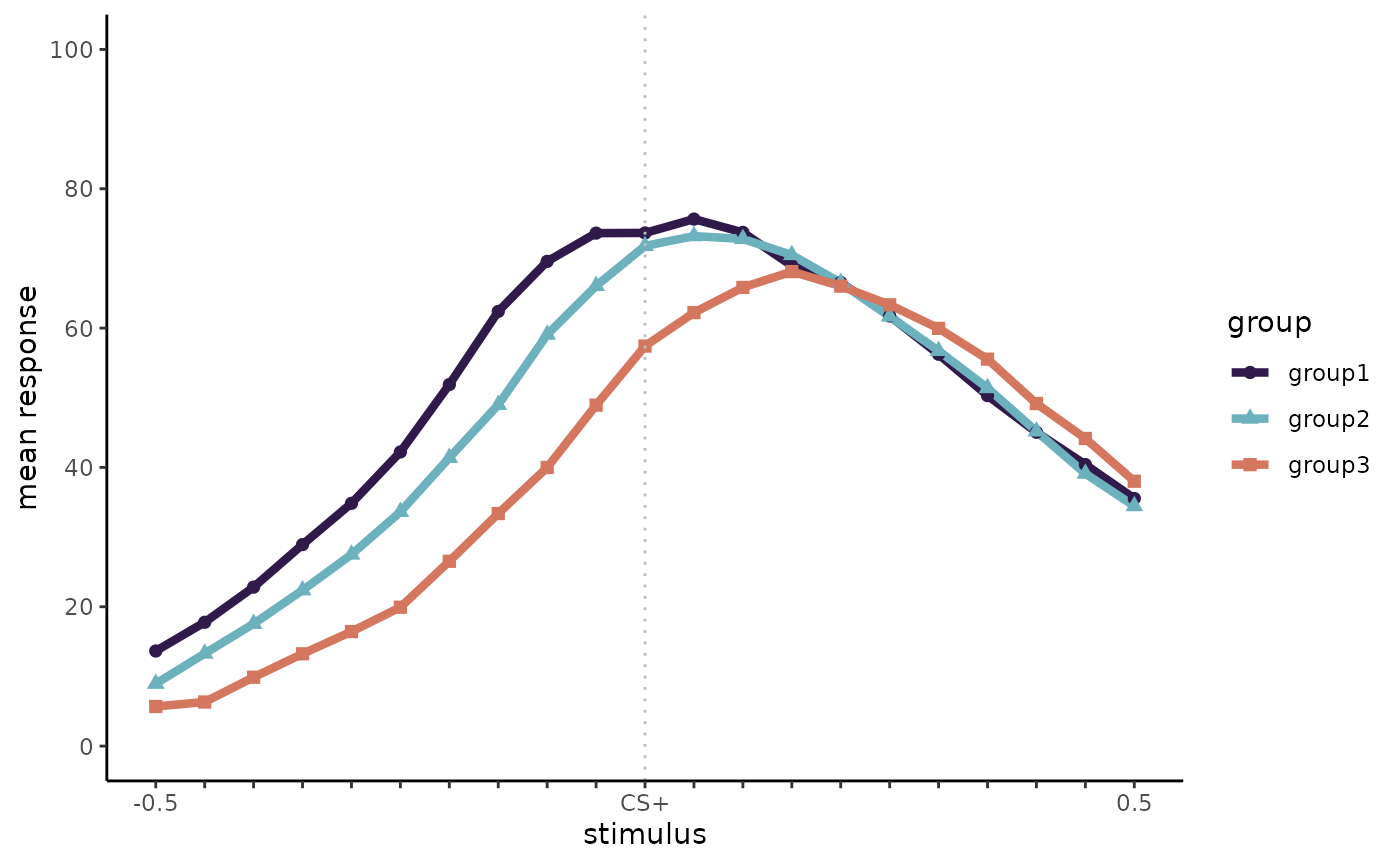
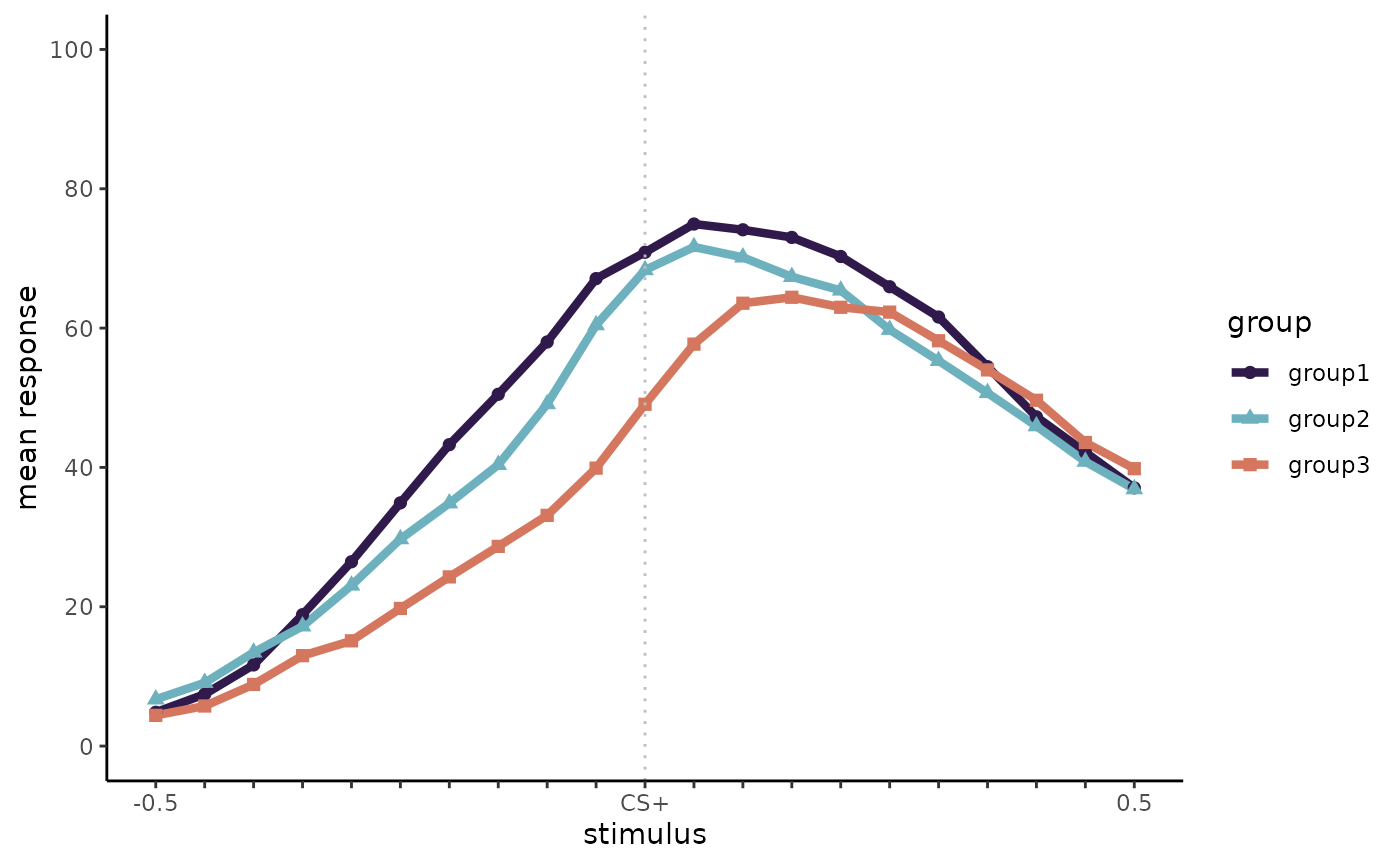
Deploying to gh-pages from @ fontikar/augGauss@8435af4aa9eb79ba9f556b60b281e125bf797bbd 🚀

Changed region(s): [[0.0921, 0.2497, 0.8293, 0.8428]]

diff --git a/articles/augGauss.html b/articles/augGauss.html
@@ -113,12 +113,12 @@ of <code>augGauss</code>
 <span><span class="co">#&gt; <span style="color: #949494;"># A tibble: 630 × 4</span></span></span>
 <span><span class="co">#&gt;    subj group      x     y</span></span>
 <span><span class="co">#&gt;   <span style="color: #949494; font-style: italic;">&lt;dbl&gt;</span> <span style="color: #949494; font-style: italic;">&lt;chr&gt;</span>  <span style="color: #949494; font-style: italic;">&lt;dbl&gt;</span> <span style="color: #949494; font-style: italic;">&lt;dbl&gt;</span></span></span>
-<span><span class="co">#&gt; <span style="color: #BCBCBC;">1</span>     1 group1 -<span style="color: #BB0000;">0.5</span>   20.8</span></span>
-<span><span class="co">#&gt; <span style="color: #BCBCBC;">2</span>     1 group1 -<span style="color: #BB0000;">0.45</span>  28.0</span></span>
-<span><span class="co">#&gt; <span style="color: #BCBCBC;">3</span>     1 group1 -<span style="color: #BB0000;">0.4</span>   39.9</span></span>
-<span><span class="co">#&gt; <span style="color: #BCBCBC;">4</span>     1 group1 -<span style="color: #BB0000;">0.35</span>  49.3</span></span>
-<span><span class="co">#&gt; <span style="color: #BCBCBC;">5</span>     1 group1 -<span style="color: #BB0000;">0.3</span>   58.8</span></span>
-<span><span class="co">#&gt; <span style="color: #BCBCBC;">6</span>     1 group1 -<span style="color: #BB0000;">0.25</span>  62.6</span></span>
+<span><span class="co">#&gt; <span style="color: #BCBCBC;">1</span>     1 group1 -<span style="color: #BB0000;">0.5</span>   4.90</span></span>
+<span><span class="co">#&gt; <span style="color: #BCBCBC;">2</span>     1 group1 -<span style="color: #BB0000;">0.45</span>  8.17</span></span>
+<span><span class="co">#&gt; <span style="color: #BCBCBC;">3</span>     1 group1 -<span style="color: #BB0000;">0.4</span>  11.7 </span></span>
+<span><span class="co">#&gt; <span style="color: #BCBCBC;">4</span>     1 group1 -<span style="color: #BB0000;">0.35</span> 18.2 </span></span>
+<span><span class="co">#&gt; <span style="color: #BCBCBC;">5</span>     1 group1 -<span style="color: #BB0000;">0.3</span>  21.6 </span></span>
+<span><span class="co">#&gt; <span style="color: #BCBCBC;">6</span>     1 group1 -<span style="color: #BB0000;">0.25</span> 24.5 </span></span>
 <span><span class="co">#&gt; <span style="color: #949494;"># ℹ 624 more rows</span></span></span></code></pre></div>
 <p>You can save the simulated data by setting the <code>save_data</code>
 argument to <code>TRUE</code></p>
@@ -143,35 +143,35 @@ argument to <code>TRUE</code></p>
 <div class="sourceCode" id="cb7"><pre class="downlit sourceCode r">
 <code class="sourceCode R"><span><span class="fu"><a href="../reference/Get_HDIs.html">Get_HDIs</a></span><span class="op">(</span><span class="va">combined</span><span class="op">)</span> </span>
 <span><span class="co">#&gt; $group1</span></span>
-<span><span class="co">#&gt;           param hdi_lim    hdi_low    hdi_high rope_low rope_high prop_rope</span></span>
-<span><span class="co">#&gt; 1       M_group    0.95 -0.0908908  0.03586731    -0.05      0.05      0.78</span></span>
-<span><span class="co">#&gt; 2  SDPlus_group    0.95  0.3348266  0.48086057     0.10      0.20      0.00</span></span>
-<span><span class="co">#&gt; 3 SDMinus_group    0.95  0.1724787  0.30008516     0.10      0.20      0.15</span></span>
-<span><span class="co">#&gt; 4  height_group    0.95 77.5196138 80.15737202    70.00     80.00      0.96</span></span>
+<span><span class="co">#&gt;           param hdi_lim     hdi_low   hdi_high rope_low rope_high prop_rope</span></span>
+<span><span class="co">#&gt; 1       M_group    0.95 -0.02939863  0.2120115    -0.05      0.05      0.40</span></span>
+<span><span class="co">#&gt; 2  SDPlus_group    0.95  0.14844642  0.4299640     0.10      0.20      0.21</span></span>
+<span><span class="co">#&gt; 3 SDMinus_group    0.95  0.15448574  0.2889490     0.10      0.20      0.23</span></span>
+<span><span class="co">#&gt; 4  height_group    0.95 50.99432431 81.1201885    70.00     80.00      0.31</span></span>
 <span><span class="co">#&gt;   p_dir</span></span>
-<span><span class="co">#&gt; 1  0.79</span></span>
+<span><span class="co">#&gt; 1  0.89</span></span>
 <span><span class="co">#&gt; 2  1.00</span></span>
 <span><span class="co">#&gt; 3  1.00</span></span>
 <span><span class="co">#&gt; 4  1.00</span></span>
 <span><span class="co">#&gt; </span></span>
 <span><span class="co">#&gt; $group2</span></span>
-<span><span class="co">#&gt;           param hdi_lim     hdi_low    hdi_high rope_low rope_high prop_rope</span></span>
-<span><span class="co">#&gt; 1       M_group    0.95 -0.03557603  0.09613486    -0.05      0.05      0.74</span></span>
-<span><span class="co">#&gt; 2  SDPlus_group    0.95  0.29347237  0.42859499     0.10      0.20      0.00</span></span>
-<span><span class="co">#&gt; 3 SDMinus_group    0.95  0.18625033  0.29382908     0.10      0.20      0.05</span></span>
-<span><span class="co">#&gt; 4  height_group    0.95 60.15543552 77.51817058    70.00     80.00      0.50</span></span>
+<span><span class="co">#&gt;           param hdi_lim     hdi_low   hdi_high rope_low rope_high prop_rope</span></span>
+<span><span class="co">#&gt; 1       M_group    0.95 -0.03742665  0.3289277    -0.05      0.05      0.43</span></span>
+<span><span class="co">#&gt; 2  SDPlus_group    0.95  0.09966680  0.4860483     0.10      0.20      0.38</span></span>
+<span><span class="co">#&gt; 3 SDMinus_group    0.95  0.11189182  0.5306188     0.10      0.20      0.41</span></span>
+<span><span class="co">#&gt; 4  height_group    0.95 27.34201686 75.8644720    70.00     80.00      0.50</span></span>
 <span><span class="co">#&gt;   p_dir</span></span>
-<span><span class="co">#&gt; 1  0.74</span></span>
+<span><span class="co">#&gt; 1  0.77</span></span>
 <span><span class="co">#&gt; 2  1.00</span></span>
 <span><span class="co">#&gt; 3  1.00</span></span>
 <span><span class="co">#&gt; 4  1.00</span></span>
 <span><span class="co">#&gt; </span></span>
 <span><span class="co">#&gt; $group3</span></span>
 <span><span class="co">#&gt;           param hdi_lim     hdi_low   hdi_high rope_low rope_high prop_rope</span></span>
-<span><span class="co">#&gt; 1       M_group    0.95  0.04971669  0.2305600    -0.05      0.05      0.03</span></span>
-<span><span class="co">#&gt; 2  SDPlus_group    0.95  0.31291494  0.9999632     0.10      0.20      0.00</span></span>
-<span><span class="co">#&gt; 3 SDMinus_group    0.95  0.20845666  0.3043613     0.10      0.20      0.00</span></span>
-<span><span class="co">#&gt; 4  height_group    0.95 40.43222326 71.2605300    70.00     80.00      0.38</span></span>
+<span><span class="co">#&gt; 1       M_group    0.95  0.03386109  0.1376460    -0.05      0.05      0.08</span></span>
+<span><span class="co">#&gt; 2  SDPlus_group    0.95  0.32648971  0.4335942     0.10      0.20      0.00</span></span>
+<span><span class="co">#&gt; 3 SDMinus_group    0.95  0.12992057  0.2725881     0.10      0.20      0.33</span></span>
+<span><span class="co">#&gt; 4  height_group    0.95 69.21586280 71.5534267    70.00     80.00      0.81</span></span>
 <span><span class="co">#&gt;   p_dir</span></span>
 <span><span class="co">#&gt; 1     1</span></span>
 <span><span class="co">#&gt; 2     1</span></span>
@@ -180,118 +180,118 @@ argument to <code>TRUE</code></p>
 <span></span>
 <span><span class="fu"><a href="../reference/Get_HDIs_diff.html">Get_HDIs_diff</a></span><span class="op">(</span><span class="va">combined</span>, comparison <span class="op">=</span> <span class="fu"><a href="https://rdrr.io/r/base/c.html" class="external-link">c</a></span><span class="op">(</span><span class="st">"group1"</span>, <span class="st">"group3"</span><span class="op">)</span><span class="op">)</span> </span>
 <span><span class="co">#&gt; $group_sample_diffs</span></span>
-<span><span class="co">#&gt;         M_group SDPlus_group SDMinus_group height_group</span></span>
-<span><span class="co">#&gt; 1   -0.21727101  0.054325519  -0.002874940    10.263999</span></span>
-<span><span class="co">#&gt; 2   -0.21620839  0.027194856  -0.046093563     8.764259</span></span>
-<span><span class="co">#&gt; 3   -0.10488857  0.032018199  -0.077473921     9.810212</span></span>
-<span><span class="co">#&gt; 4   -0.12845479  0.092912814  -0.021460778     8.649261</span></span>
-<span><span class="co">#&gt; 5   -0.09777394  0.074549662  -0.053819750     6.777483</span></span>
-<span><span class="co">#&gt; 6   -0.19403608  0.024728223  -0.042852513     8.224108</span></span>
-<span><span class="co">#&gt; 7   -0.08016422  0.085057504   0.012657117     8.617163</span></span>
-<span><span class="co">#&gt; 8   -0.19176985  0.048489959  -0.021524948     9.097928</span></span>
-<span><span class="co">#&gt; 9   -0.10062733  0.049444555   0.047222618     8.478196</span></span>
-<span><span class="co">#&gt; 10  -0.08891719  0.167945635   0.051308251     9.370869</span></span>
-<span><span class="co">#&gt; 11  -0.16284360  0.081915298  -0.024586142     7.911898</span></span>
-<span><span class="co">#&gt; 12  -0.15092997  0.101082417   0.003867328     8.089712</span></span>
-<span><span class="co">#&gt; 13  -0.12249264  0.001112768  -0.005464958     6.844235</span></span>
-<span><span class="co">#&gt; 14  -0.16838249  0.025054657   0.029113208     7.568462</span></span>
-<span><span class="co">#&gt; 15  -0.08475131  0.046278480  -0.068447797     9.129154</span></span>
-<span><span class="co">#&gt; 16  -0.17539865  0.040393975   0.012054918     8.656194</span></span>
-<span><span class="co">#&gt; 17  -0.07754371  0.016172625  -0.014007394     7.391960</span></span>
-<span><span class="co">#&gt; 18  -0.13515942 -0.068083050   0.024295119     7.216624</span></span>
-<span><span class="co">#&gt; 19  -0.10985060  0.139345173   0.025466695     7.788508</span></span>
-<span><span class="co">#&gt; 20  -0.12608943  0.085633969  -0.032535457     6.833905</span></span>
-<span><span class="co">#&gt; 21  -0.20520168  0.024802518   0.031534362     9.278038</span></span>
-<span><span class="co">#&gt; 22  -0.06612078  0.087075698   0.003975574     7.797557</span></span>
-<span><span class="co">#&gt; 23  -0.16195674  0.133397910  -0.034101508     8.780768</span></span>
-<span><span class="co">#&gt; 24  -0.09975199  0.153763062   0.046239549     8.751914</span></span>
-<span><span class="co">#&gt; 25  -0.14519275  0.034906697  -0.059363042    10.387826</span></span>
-<span><span class="co">#&gt; 26  -0.10886900  0.120951636   0.023862213     8.162546</span></span>
-<span><span class="co">#&gt; 27  -0.13568646  0.087323383  -0.050970975     8.984652</span></span>
-<span><span class="co">#&gt; 28  -0.03158035  0.146661976   0.013511988     8.339056</span></span>
-<span><span class="co">#&gt; 29  -0.13975900  0.128345473   0.047298099     8.403335</span></span>
-<span><span class="co">#&gt; 30  -0.14045212  0.024040483  -0.051702132     8.493557</span></span>
-<span><span class="co">#&gt; 31  -0.16617044  0.035638997  -0.034269514     7.363753</span></span>
-<span><span class="co">#&gt; 32  -0.08278816  0.059563255  -0.002855155    10.831375</span></span>
-<span><span class="co">#&gt; 33  -0.11110287  0.087656601  -0.090216697     7.362208</span></span>
-<span><span class="co">#&gt; 34  -0.09758685  0.131009973  -0.015780754     7.473893</span></span>
-<span><span class="co">#&gt; 35  -0.08963024  0.085048408   0.004222881     7.764303</span></span>
-<span><span class="co">#&gt; 36  -0.12599236  0.065000800  -0.020296263     8.126818</span></span>
-<span><span class="co">#&gt; 37  -0.14113086  0.101979583  -0.002538226     7.423678</span></span>
-<span><span class="co">#&gt; 38  -0.14678511 -0.031585127   0.008981466     6.829856</span></span>
-<span><span class="co">#&gt; 39  -0.07252593 -0.010047081  -0.078706226     9.353344</span></span>
-<span><span class="co">#&gt; 40  -0.10687508  0.049836821  -0.043592705     7.890647</span></span>
-<span><span class="co">#&gt; 41  -0.10427783  0.116668902   0.034981188     7.806011</span></span>
-<span><span class="co">#&gt; 42  -0.18060148  0.036201549  -0.043302571     6.429565</span></span>
-<span><span class="co">#&gt; 43  -0.16635302 -0.010713863   0.019527835     7.368822</span></span>
-<span><span class="co">#&gt; 44  -0.18138076 -0.010378215  -0.026836213     7.181583</span></span>
-<span><span class="co">#&gt; 45  -0.15020614 -0.054234977   0.019991958     8.634247</span></span>
-<span><span class="co">#&gt; 46  -0.11281399 -0.018856074  -0.072978272     7.552645</span></span>
-<span><span class="co">#&gt; 47  -0.13784375  0.073677016  -0.083341264     6.785780</span></span>
-<span><span class="co">#&gt; 48  -0.17945973  0.043832770  -0.031817741     9.923425</span></span>
-<span><span class="co">#&gt; 49  -0.05485419  0.046901489  -0.034783334     8.326676</span></span>
-<span><span class="co">#&gt; 50  -0.09492663  0.070380449   0.034529817     7.741720</span></span>
-<span><span class="co">#&gt; 51  -0.20925240 -0.564778317  -0.008239395    38.363062</span></span>
-<span><span class="co">#&gt; 52  -0.18461162 -0.641153943  -0.060941655    37.141019</span></span>
-<span><span class="co">#&gt; 53  -0.24641679 -0.551128976   0.021356812    34.079672</span></span>
-<span><span class="co">#&gt; 54  -0.18620537 -0.605165895  -0.033471537    36.567449</span></span>
-<span><span class="co">#&gt; 55  -0.21202043 -0.624498051  -0.029104507    32.375438</span></span>
-<span><span class="co">#&gt; 56  -0.16525425 -0.626975267  -0.041467999    35.748695</span></span>
-<span><span class="co">#&gt; 57  -0.20156777 -0.613388964  -0.056823929    36.105844</span></span>
-<span><span class="co">#&gt; 58  -0.27332690 -0.629519373   0.038553850    36.263644</span></span>
-<span><span class="co">#&gt; 59  -0.18647291 -0.597542156  -0.001849103    35.504300</span></span>
-<span><span class="co">#&gt; 60  -0.17297254 -0.647661936  -0.057937110    38.156776</span></span>
-<span><span class="co">#&gt; 61  -0.23745482 -0.567111410   0.061553383    36.219411</span></span>
-<span><span class="co">#&gt; 62  -0.15129208 -0.589719070   0.002308566    34.011380</span></span>
-<span><span class="co">#&gt; 63  -0.30117632 -0.590493748  -0.075086573    36.091012</span></span>
-<span><span class="co">#&gt; 64  -0.15598693 -0.613454585  -0.057124823    38.384191</span></span>
-<span><span class="co">#&gt; 65  -0.20123022 -0.576605426  -0.124350576    36.599653</span></span>
-<span><span class="co">#&gt; 66  -0.23217476 -0.544869754   0.042343846    38.711410</span></span>
-<span><span class="co">#&gt; 67  -0.14963297 -0.584767364  -0.023911597    36.544399</span></span>
-<span><span class="co">#&gt; 68  -0.22147420 -0.565663182  -0.052745935    34.722783</span></span>
-<span><span class="co">#&gt; 69  -0.15519072 -0.619161208   0.007919497    36.960282</span></span>
-<span><span class="co">#&gt; 70  -0.29266266 -0.585502205  -0.118444511    37.063214</span></span>
-<span><span class="co">#&gt; 71  -0.11926239 -0.626126605   0.042286688    36.504798</span></span>
-<span><span class="co">#&gt; 72  -0.24185617 -0.587064834   0.020241645    34.200256</span></span>
-<span><span class="co">#&gt; 73  -0.13599668 -0.583412539   0.011030613    35.074059</span></span>
-<span><span class="co">#&gt; 74  -0.22410834 -0.519231408  -0.046111295    36.939685</span></span>
-<span><span class="co">#&gt; 75  -0.15963307 -0.665093007  -0.125040071    34.740452</span></span>
-<span><span class="co">#&gt; 76  -0.26095933 -0.634081264  -0.042051551    37.553125</span></span>
-<span><span class="co">#&gt; 77  -0.21466958 -0.657220511  -0.139347670    34.849520</span></span>
-<span><span class="co">#&gt; 78  -0.18842444 -0.586654912  -0.044857741    35.932985</span></span>
-<span><span class="co">#&gt; 79  -0.20701723 -0.581642051   0.022328549    34.756345</span></span>
-<span><span class="co">#&gt; 80  -0.18909002 -0.603678657  -0.017677222    37.665586</span></span>
-<span><span class="co">#&gt; 81  -0.25559885 -0.559000448  -0.011528151    33.625754</span></span>
-<span><span class="co">#&gt; 82  -0.17619171 -0.481916238  -0.053239331    35.661848</span></span>
-<span><span class="co">#&gt; 83  -0.23833855 -0.576105440  -0.056858272    35.481071</span></span>
-<span><span class="co">#&gt; 84  -0.21483809 -0.669176585  -0.086838043    38.385404</span></span>
-<span><span class="co">#&gt; 85  -0.11633650 -0.527193485  -0.010405706    38.244455</span></span>
-<span><span class="co">#&gt; 86  -0.27861233 -0.498995189  -0.074730294    37.362586</span></span>
-<span><span class="co">#&gt; 87  -0.13909825 -0.636699472  -0.019286083    35.692603</span></span>
-<span><span class="co">#&gt; 88  -0.22660366 -0.529350749   0.009483053    34.774190</span></span>
-<span><span class="co">#&gt; 89  -0.15081918 -0.607069218  -0.046954938    36.256107</span></span>
-<span><span class="co">#&gt; 90  -0.13925960 -0.630892878  -0.094224635    35.081719</span></span>
-<span><span class="co">#&gt; 91  -0.23733121 -0.594716780   0.023088106    35.232090</span></span>
-<span><span class="co">#&gt; 92  -0.17320224 -0.588400132   0.000592308    37.481292</span></span>
-<span><span class="co">#&gt; 93  -0.13279767 -0.627022701  -0.009364474    34.141147</span></span>
-<span><span class="co">#&gt; 94  -0.23409750 -0.560692822  -0.042604604    36.395646</span></span>
-<span><span class="co">#&gt; 95  -0.26013161 -0.584752048   0.006276239    36.947906</span></span>
-<span><span class="co">#&gt; 96  -0.13024212 -0.556868442  -0.013275010    34.259025</span></span>
-<span><span class="co">#&gt; 97  -0.21847179 -0.564503224  -0.052857016    34.600155</span></span>
-<span><span class="co">#&gt; 98  -0.16299429 -0.603026075   0.004824676    35.653599</span></span>
-<span><span class="co">#&gt; 99  -0.18710811 -0.650855414  -0.013309758    34.604976</span></span>
-<span><span class="co">#&gt; 100 -0.24290342 -0.570713747  -0.058363528    37.685861</span></span>
+<span><span class="co">#&gt;           M_group  SDPlus_group SDMinus_group height_group</span></span>
+<span><span class="co">#&gt; 1    0.0176038756 -0.0955361878  0.0629807589   -17.233099</span></span>
+<span><span class="co">#&gt; 2    0.0277057844 -0.0669668364  0.0138890642   -20.764999</span></span>
+<span><span class="co">#&gt; 3    0.1372423983 -0.1671254662  0.0639247075   -18.218690</span></span>
+<span><span class="co">#&gt; 4    0.1423995646 -0.1569428863  0.0063963088   -19.558177</span></span>
+<span><span class="co">#&gt; 5    0.1746762647 -0.2167104828  0.0621194099   -15.228837</span></span>
+<span><span class="co">#&gt; 6   -0.0395637078 -0.0660373464  0.0110116058   -18.871506</span></span>
+<span><span class="co">#&gt; 7    0.0569950084 -0.2327678692  0.0181758956   -13.495008</span></span>
+<span><span class="co">#&gt; 8   -0.0113398214 -0.1863302532  0.0694737404   -17.107024</span></span>
+<span><span class="co">#&gt; 9    0.1042834667 -0.1224886563  0.0116548434   -18.755262</span></span>
+<span><span class="co">#&gt; 10   0.1082494436 -0.2082500978  0.0287459342   -18.364038</span></span>
+<span><span class="co">#&gt; 11   0.1216775412 -0.1360466514  0.1001550499   -16.202608</span></span>
+<span><span class="co">#&gt; 12   0.1409870313 -0.2111392874  0.0114773580   -18.987568</span></span>
+<span><span class="co">#&gt; 13   0.0853072641 -0.1438393140  0.0358604235   -18.678920</span></span>
+<span><span class="co">#&gt; 14   0.0818145837 -0.1224085439  0.0109901960   -17.533361</span></span>
+<span><span class="co">#&gt; 15   0.1503651461 -0.1764488559  0.0374925032   -19.163337</span></span>
+<span><span class="co">#&gt; 16  -0.0237342099 -0.1567590117 -0.0047702550   -16.570995</span></span>
+<span><span class="co">#&gt; 17  -0.0124285058 -0.1886732488  0.0318648575   -21.070726</span></span>
+<span><span class="co">#&gt; 18   0.0774442468 -0.1534473233 -0.0286293061   -16.625810</span></span>
+<span><span class="co">#&gt; 19   0.1156935501 -0.1825397400  0.0115457081   -17.258031</span></span>
+<span><span class="co">#&gt; 20   0.0763797002 -0.0337377202  0.0608996863   -17.633498</span></span>
+<span><span class="co">#&gt; 21   0.0251363972 -0.2503464890 -0.0274072310   -12.629426</span></span>
+<span><span class="co">#&gt; 22   0.0644944368 -0.1482481565  0.1354144650   -17.744411</span></span>
+<span><span class="co">#&gt; 23   0.0212271634 -0.2067241253 -0.0009409767   -14.688784</span></span>
+<span><span class="co">#&gt; 24   0.1196774503 -0.1942041544  0.1317954619   -16.877866</span></span>
+<span><span class="co">#&gt; 25   0.0456831756 -0.1007469568  0.0226072226   -18.521699</span></span>
+<span><span class="co">#&gt; 26   0.0882861770 -0.2058463045  0.0176865419   -15.511643</span></span>
+<span><span class="co">#&gt; 27   0.0943673520 -0.1713664324  0.0675360125   -17.252265</span></span>
+<span><span class="co">#&gt; 28   0.0424226676 -0.1408517847  0.0110798865   -14.293621</span></span>
+<span><span class="co">#&gt; 29   0.0666358153 -0.1483916764  0.0498516131   -18.949886</span></span>
+<span><span class="co">#&gt; 30   0.0728233121 -0.1112809666  0.0876561989   -18.175405</span></span>
+<span><span class="co">#&gt; 31   0.0003230613 -0.2696405411  0.0066262849   -17.580206</span></span>
+<span><span class="co">#&gt; 32   0.0648246163 -0.2292359466  0.0460867664   -17.945350</span></span>
+<span><span class="co">#&gt; 33   0.0237313805 -0.1160634439 -0.0031629855   -15.864281</span></span>
+<span><span class="co">#&gt; 34   0.0632226685 -0.1847736797  0.1041270807   -16.690886</span></span>
+<span><span class="co">#&gt; 35   0.1028098425 -0.1212272262  0.0481113903   -15.281056</span></span>
+<span><span class="co">#&gt; 36   0.1372369966 -0.1399402539  0.0831877552   -16.529718</span></span>
+<span><span class="co">#&gt; 37   0.1373059475 -0.1779574224  0.0526439338   -18.648490</span></span>
+<span><span class="co">#&gt; 38   0.0236253884 -0.1792494066  0.0438581916   -18.162933</span></span>
+<span><span class="co">#&gt; 39   0.0866144682 -0.2082934243  0.0744457184   -19.305545</span></span>
+<span><span class="co">#&gt; 40   0.0473755875 -0.0892140292 -0.0298521035   -17.206020</span></span>
+<span><span class="co">#&gt; 41   0.0417606800 -0.2209431513  0.0004840834   -16.621387</span></span>
+<span><span class="co">#&gt; 42   0.0753256503 -0.1690226831  0.0675728192   -16.325889</span></span>
+<span><span class="co">#&gt; 43   0.0528178374 -0.2251344790  0.0465082184   -16.459184</span></span>
+<span><span class="co">#&gt; 44   0.1011586622 -0.1899441935 -0.0049842250   -16.258146</span></span>
+<span><span class="co">#&gt; 45   0.1117544314 -0.2425301908  0.0592790904   -15.893463</span></span>
+<span><span class="co">#&gt; 46   0.0507660722 -0.0525255846  0.0770139132   -19.035724</span></span>
+<span><span class="co">#&gt; 47   0.0828485816 -0.1011246722  0.0715948881   -18.861523</span></span>
+<span><span class="co">#&gt; 48   0.1138301560 -0.2292207334 -0.0233819731   -19.801333</span></span>
+<span><span class="co">#&gt; 49   0.0853072505 -0.1717095732  0.1213033837   -15.536750</span></span>
+<span><span class="co">#&gt; 50   0.0203781962 -0.1989218293  0.0325435352   -16.714859</span></span>
+<span><span class="co">#&gt; 51  -0.0334639099 -0.0100820030  0.0212337674     9.766769</span></span>
+<span><span class="co">#&gt; 52  -0.0505729424  0.0032398448 -0.0337997991     9.679912</span></span>
+<span><span class="co">#&gt; 53  -0.0454146287  0.0126823594  0.0496227027     9.511465</span></span>
+<span><span class="co">#&gt; 54   0.0031617679  0.0619010811 -0.0287285339     8.972190</span></span>
+<span><span class="co">#&gt; 55  -0.1112323057  0.0385460461 -0.0402227078    10.053500</span></span>
+<span><span class="co">#&gt; 56  -0.0099341959  0.0178400585 -0.0161638732     8.248121</span></span>
+<span><span class="co">#&gt; 57  -0.0584496780  0.0768496023 -0.0131171564     8.580505</span></span>
+<span><span class="co">#&gt; 58  -0.0891798097 -0.0152589967 -0.0006125056     8.203953</span></span>
+<span><span class="co">#&gt; 59  -0.1486767506 -0.0007679793 -0.0204013216     8.942722</span></span>
+<span><span class="co">#&gt; 60  -0.0879974207  0.0553665969  0.0629996081     9.211398</span></span>
+<span><span class="co">#&gt; 61  -0.0725290894 -0.0533381141 -0.0409874695     8.418947</span></span>
+<span><span class="co">#&gt; 62  -0.1173774898  0.0629456665 -0.0886509898     9.937011</span></span>
+<span><span class="co">#&gt; 63  -0.0784630170 -0.0626578543  0.0119500797     9.546727</span></span>
+<span><span class="co">#&gt; 64  -0.0573542525  0.0017150593  0.0064402574     9.299257</span></span>
+<span><span class="co">#&gt; 65  -0.0832329872  0.0060185121  0.0367934098     8.774349</span></span>
+<span><span class="co">#&gt; 66  -0.0151753114  0.0518983891 -0.0243947030     7.500353</span></span>
+<span><span class="co">#&gt; 67  -0.0353377057  0.0179906210  0.0241938585     9.671290</span></span>
+<span><span class="co">#&gt; 68  -0.0513806250  0.0001231279 -0.0341599614     9.446216</span></span>
+<span><span class="co">#&gt; 69  -0.0288304536 -0.0250111892 -0.0229586908    10.913648</span></span>
+<span><span class="co">#&gt; 70  -0.0166054155  0.0035299153 -0.0106590480     7.932176</span></span>
+<span><span class="co">#&gt; 71  -0.0831277624  0.0008491300  0.0402419191     9.343476</span></span>
+<span><span class="co">#&gt; 72  -0.0289048898 -0.0428297163 -0.0176153630    10.629637</span></span>
+<span><span class="co">#&gt; 73  -0.0715576712  0.0119375305  0.0158116841    10.068574</span></span>
+<span><span class="co">#&gt; 74  -0.1471749344 -0.0173448809 -0.1250463742     9.037175</span></span>
+<span><span class="co">#&gt; 75  -0.1157324771  0.0258098481 -0.0376352054     9.013086</span></span>
+<span><span class="co">#&gt; 76  -0.0463172346 -0.0812396691  0.0376275985     7.981957</span></span>
+<span><span class="co">#&gt; 77  -0.0848780362  0.0080028134  0.0106336284     7.837132</span></span>
+<span><span class="co">#&gt; 78  -0.1102683981 -0.0291684030  0.0121338324     9.483019</span></span>
+<span><span class="co">#&gt; 79  -0.1219698361 -0.0218392770  0.0175650659     7.182861</span></span>
+<span><span class="co">#&gt; 80  -0.0293322194  0.0166171260 -0.0338131941    11.176518</span></span>
+<span><span class="co">#&gt; 81  -0.1187032126  0.0773591366  0.1043626563     9.149669</span></span>
+<span><span class="co">#&gt; 82  -0.1004462481  0.0132891536 -0.0615272061     8.865670</span></span>
+<span><span class="co">#&gt; 83  -0.0952065929  0.0020548713  0.0442491120     8.856546</span></span>
+<span><span class="co">#&gt; 84  -0.0810117121 -0.0514070852 -0.0332100101     9.421228</span></span>
+<span><span class="co">#&gt; 85   0.0060775394  0.0688966939  0.0799120080    10.217118</span></span>
+<span><span class="co">#&gt; 86  -0.0782138091 -0.0467743693 -0.0150847234     8.866274</span></span>
+<span><span class="co">#&gt; 87  -0.0953511097  0.0571962012 -0.0406366794     8.786629</span></span>
+<span><span class="co">#&gt; 88  -0.0829471356  0.0578014436 -0.0686359561     6.918841</span></span>
+<span><span class="co">#&gt; 89  -0.0855916721 -0.0270248600  0.0110265760     8.923734</span></span>
+<span><span class="co">#&gt; 90  -0.0142432349  0.0444682626  0.0434736850    10.187001</span></span>
+<span><span class="co">#&gt; 91  -0.0527778495  0.0337997320 -0.0193379124     9.009433</span></span>
+<span><span class="co">#&gt; 92  -0.0026984689 -0.0228205128 -0.0442782312     9.180549</span></span>
+<span><span class="co">#&gt; 93  -0.1265867851  0.0692690786  0.0574405141     8.659189</span></span>
+<span><span class="co">#&gt; 94  -0.0689515383  0.0472467060 -0.0899964024     8.660256</span></span>
+<span><span class="co">#&gt; 95  -0.0442192294  0.0483103983  0.0524758552     8.524361</span></span>
+<span><span class="co">#&gt; 96  -0.0542959554 -0.0866397242  0.0633435029     9.774529</span></span>
+<span><span class="co">#&gt; 97  -0.0565108885  0.0240448020 -0.0318802483    10.083765</span></span>
+<span><span class="co">#&gt; 98  -0.0789073863 -0.0542285759 -0.0417468705     8.237185</span></span>
+<span><span class="co">#&gt; 99  -0.0351267676  0.0264401722  0.0279778421     9.537319</span></span>
+<span><span class="co">#&gt; 100 -0.1082981560  0.0232787066 -0.0458878117     8.129780</span></span>
 <span><span class="co">#&gt; </span></span>
 <span><span class="co">#&gt; $group_diff_hdi</span></span>
 <span><span class="co">#&gt;           param hdi_lim     hdi_low    hdi_high p_dir rope_low rope_high</span></span>
-<span><span class="co">#&gt; 1       M_group    0.95 -0.27861233 -0.06612078  1.00    -0.05      0.05</span></span>
-<span><span class="co">#&gt; 2  SDPlus_group    0.95 -0.66917659  0.13339791  0.57    -0.05      0.05</span></span>
-<span><span class="co">#&gt; 3 SDMinus_group    0.95 -0.09422464  0.06155338  0.65    -0.05      0.05</span></span>
-<span><span class="co">#&gt; 4  height_group    0.95  6.82985615 38.38540378  1.00    -2.50      2.50</span></span>
+<span><span class="co">#&gt; 1       M_group    0.95  -0.1265868  0.14239956  0.52    -0.05      0.05</span></span>
+<span><span class="co">#&gt; 2  SDPlus_group    0.95  -0.2292359  0.07735914  0.67    -0.05      0.05</span></span>
+<span><span class="co">#&gt; 3 SDMinus_group    0.95  -0.0899964  0.10436266  0.64    -0.05      0.05</span></span>
+<span><span class="co">#&gt; 4  height_group    0.95 -19.8013330 10.62963691  0.50    -2.50      2.50</span></span>
 <span><span class="co">#&gt;   prop_rope</span></span>
-<span><span class="co">#&gt; 1      0.01</span></span>
-<span><span class="co">#&gt; 2      0.23</span></span>
-<span><span class="co">#&gt; 3      0.71</span></span>
+<span><span class="co">#&gt; 1      0.32</span></span>
+<span><span class="co">#&gt; 2      0.35</span></span>
+<span><span class="co">#&gt; 3      0.70</span></span>
 <span><span class="co">#&gt; 4      0.00</span></span></code></pre></div>
 </div>
 <div class="section level2">

diff --git a/reference/simulate_data.html b/reference/simulate_data.html
@@ -161,7 +161,7 @@
 <span class="r-out co"><span class="r-pr">#&gt;</span>             ".csv"))</span>
 <span class="r-out co"><span class="r-pr">#&gt;</span>     else return(out)</span>
 <span class="r-out co"><span class="r-pr">#&gt;</span> }</span>
-<span class="r-out co"><span class="r-pr">#&gt;</span> &lt;bytecode: 0x55573476a280&gt;</span>
+<span class="r-out co"><span class="r-pr">#&gt;</span> &lt;bytecode: 0x56098e30f9e0&gt;</span>
 <span class="r-out co"><span class="r-pr">#&gt;</span> &lt;environment: namespace:augGauss&gt;</span>
 </code></pre></div>
     </div>
